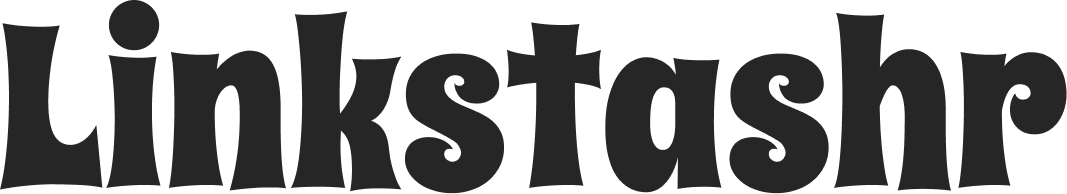
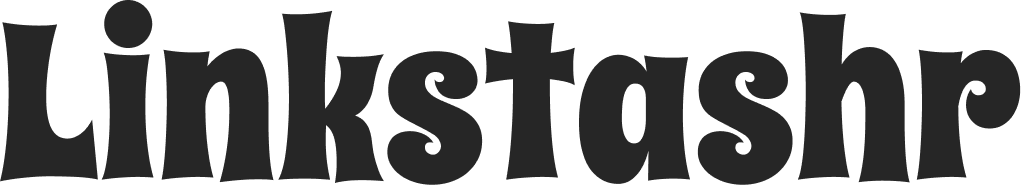
chore(seo): update brand assets

diff --git a/README.md b/README.md
@@ -1,6 +1,6 @@
 <div align="center">
 <h1>
-    <img src="public/logo-full-light.png" alt="Logo" width="300"/>
+    <img src="public/logo-light.png" alt="Logo" width="300"/>
 </h1>
 
 [![Quality Gate Status](https://sonarcloud.io/api/project_badges/measure?project=matimortari_linkstashr&metric=alert_status)](https://sonarcloud.io/summary/new_code?id=matimortari_linkstashr)
